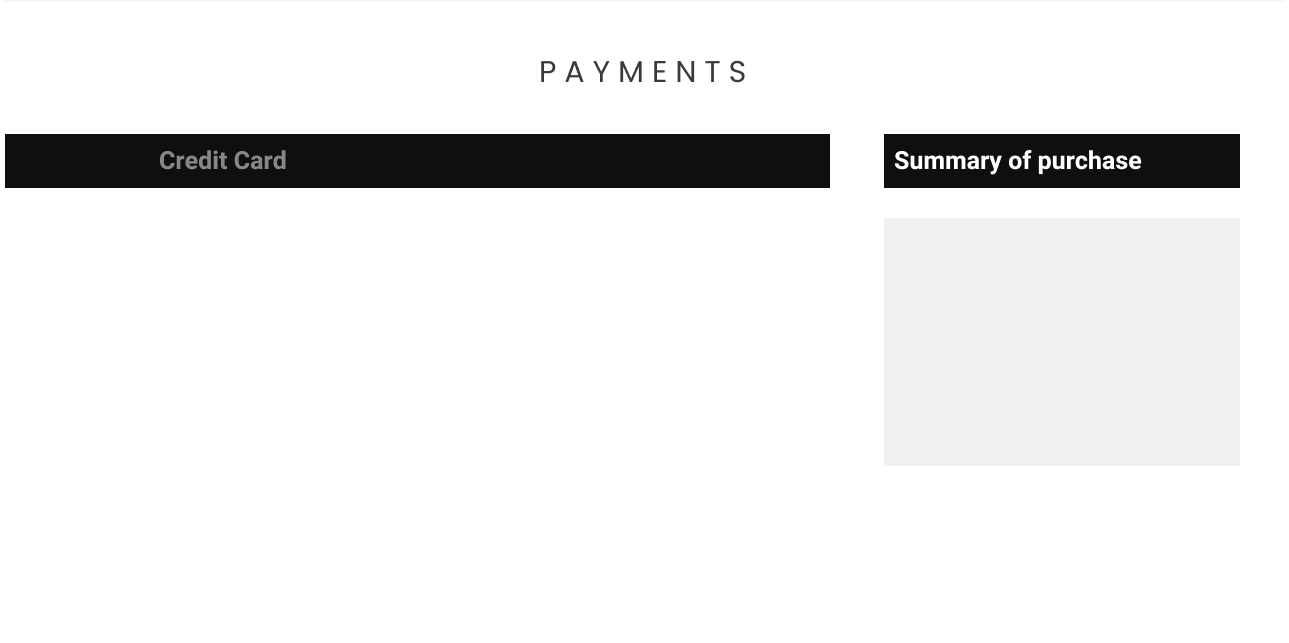
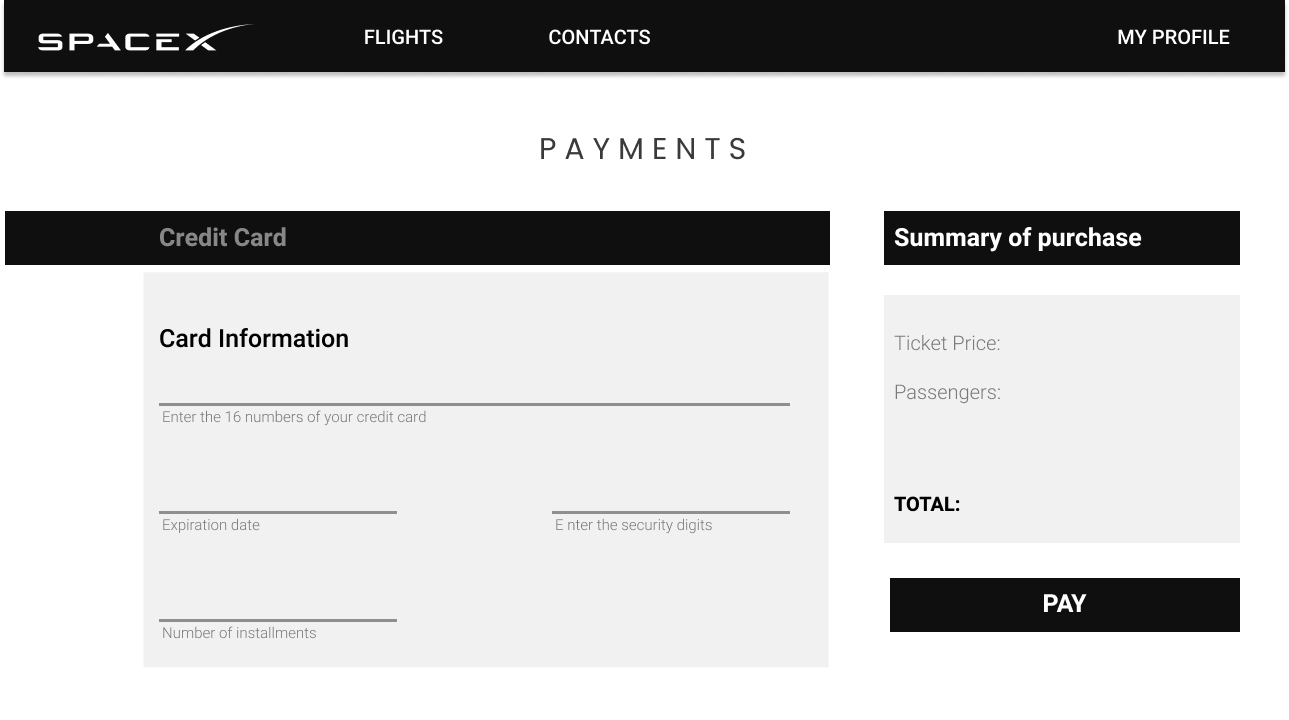
Pay View implemented

diff --git a/src/view/PayView.java b/src/view/PayView.java
@@ -14,7 +14,8 @@ import processing.core.PImage;
 public class PayView {
 	private Controller controller;
 	private PImage payScreen;
-	private PImage payButton,payButtonUI, paySuccess,navigation;
+	private PImage payButtonUI, paySuccess;
+	private boolean purchased;
 	private PApplet app;
 	
 
@@ -22,9 +23,48 @@ public class PayView {
 		controller= new Controller();
 		this.app = app;
 		payScreen = app.loadImage("../image/screens/payScreen.png");
-		navigation = app.loadImage("../image/screens/navigationBar.png");
-		payButton= app.loadImage("../image/interactive/payButton.png");
 		paySuccess = app.loadImage("../image/interactive/paySuccessfull.png");
 		payButtonUI= app.loadImage("../image/interactive/payButtonUI.png");
+		purchased=false;
+	}
+	
+	public void drawScreen() {
+		
+		
+		if(purchased==true) {
+			app.image(payScreen, -4, 0);
+			app.fill(0,95);
+			app.rect(0,0,1280, 720);
+			app.image(paySuccess,394, 182);
+		}else {
+			app.image(payScreen, -4, 0);
+			if(app.mouseX>886 && app.mouseX<1236 &&app.mouseY>578 && app.mouseY<632) {
+				app.image(payButtonUI, 886, 578);
+			}
+			
+		}
+		
+		
+	}
+	
+	public int changeScreen() {
+		int screen=7;
+		if(purchased==true) {
+			if(app.mouseX>540 && app.mouseX<738 &&app.mouseY>520 && app.mouseY<567) {
+				screen=3;
+				purchased=false;
+			}
+		}else {
+			if(app.mouseX>358 && app.mouseX<437 &&app.mouseY>28 && app.mouseY<43) {
+				screen=3;
+			}
+			if(app.mouseX>538 && app.mouseX<650 &&app.mouseY>28 && app.mouseY<43) {
+				screen=8;
+			}
+			if(app.mouseX>886 && app.mouseX<1236 &&app.mouseY>578 && app.mouseY<632) {
+				purchased=true;
+			}
+		}
+		return screen;
 	}
 }

diff --git a/src/view/Main.java b/src/view/Main.java
@@ -21,6 +21,7 @@ public class Main extends PApplet {
 	private MarsView mv;
 	private MoonView mnv;
 	private EarthView ev;
+	private PayView pv;
 	public static void main(String[] args) {
 		PApplet.main(Main.class.getName());
 
@@ -60,13 +61,14 @@ public class Main extends PApplet {
 	}
 	
 	public void setup() {
-		screen=1;
+		screen=7;
 		lv= new LoginView(this);
 		rv= new RegisterView(this);
 		hv= new HomeView(this);
 		mv= new MarsView(this);
 		mnv=new MoonView(this);
 		ev= new EarthView(this);
+		pv=new PayView(this);
 		//Initialize buttons
 		addBut = loadImage("../image/interactive/addButton.png");
 		addButUI = loadImage("../image/interactive/addButtonUI.png");
@@ -124,6 +126,9 @@ public class Main extends PApplet {
 		case 6:
 			ev.drawScreen();
 			break;
+		case 7:
+			pv.drawScreen();
+			break;
 		}
 		fill(125,100);
 		text(mouseX+","+mouseY, mouseX, mouseY);
@@ -150,6 +155,9 @@ public class Main extends PApplet {
 			break;
 		case 6:
 			screen=ev.changeScreen();
+			break;
+		case 7:
+			screen=pv.changeScreen();
 			break;
 		}
 	}

diff --git a/src/view/LoginView.java b/src/view/LoginView.java
@@ -70,7 +70,7 @@ public class LoginView {
 			if(app.mouseX>358 && app.mouseX<437 &&app.mouseY>28 && app.mouseY<43) {
 				error=true;
 			}
-			if(app.mouseX>548 && app.mouseX<645 &&app.mouseY>28 && app.mouseY<43) {
+			if(app.mouseX>538 && app.mouseX<650 &&app.mouseY>28 && app.mouseY<43) {
 				error=true;
 			}
 		}else {
@@ -78,13 +78,6 @@ public class LoginView {
 				error=false;
 			}
 		}
-		
-		
-		
-		
-		
-		
-		
 		return screen;
 	}
 

diff --git a/src/view/EarthView.java b/src/view/EarthView.java
@@ -44,7 +44,7 @@ public class EarthView {
 		if(app.mouseX>358 && app.mouseX<437 &&app.mouseY>28 && app.mouseY<43) {
 			screen=3;
 		}
-		if(app.mouseX>548 && app.mouseX<645 &&app.mouseY>28 && app.mouseY<43) {
+		if(app.mouseX>538 && app.mouseX<650 &&app.mouseY>28 && app.mouseY<43) {
 			screen=8;
 		}
 		if(app.mouseX>1019 && app.mouseX<1210 &&app.mouseY>622 && app.mouseY<684){

diff --git a/src/view/MarsView.java b/src/view/MarsView.java
@@ -45,7 +45,7 @@ public class MarsView {
 		if(app.mouseX>358 && app.mouseX<437 &&app.mouseY>28 && app.mouseY<43) {
 			screen=3;
 		}
-		if(app.mouseX>548 && app.mouseX<645 &&app.mouseY>28 && app.mouseY<43) {
+		if(app.mouseX>538 && app.mouseX<650 &&app.mouseY>28 && app.mouseY<43) {
 			screen=8;
 		}
 		if(app.mouseX>1019 && app.mouseX<1210 &&app.mouseY>622 && app.mouseY<684){

diff --git a/src/view/MoonView.java b/src/view/MoonView.java
@@ -44,7 +44,7 @@ public class MoonView {
 		if(app.mouseX>358 && app.mouseX<437 &&app.mouseY>28 && app.mouseY<43) {
 			screen=3;
 		}
-		if(app.mouseX>548 && app.mouseX<645 &&app.mouseY>28 && app.mouseY<43) {
+		if(app.mouseX>538 && app.mouseX<650 &&app.mouseY>28 && app.mouseY<43) {
 			screen=8;
 		}
 		if(app.mouseX>1019 && app.mouseX<1210 &&app.mouseY>622 && app.mouseY<684){

diff --git a/src/view/HomeView.java b/src/view/HomeView.java
@@ -49,6 +49,9 @@ public class HomeView {
 			screen=6;
 		}
 		
+		if(app.mouseX>538 && app.mouseX<650 &&app.mouseY>28 && app.mouseY<43) {
+			screen=8;
+		}
 		return screen;
 	}
 
